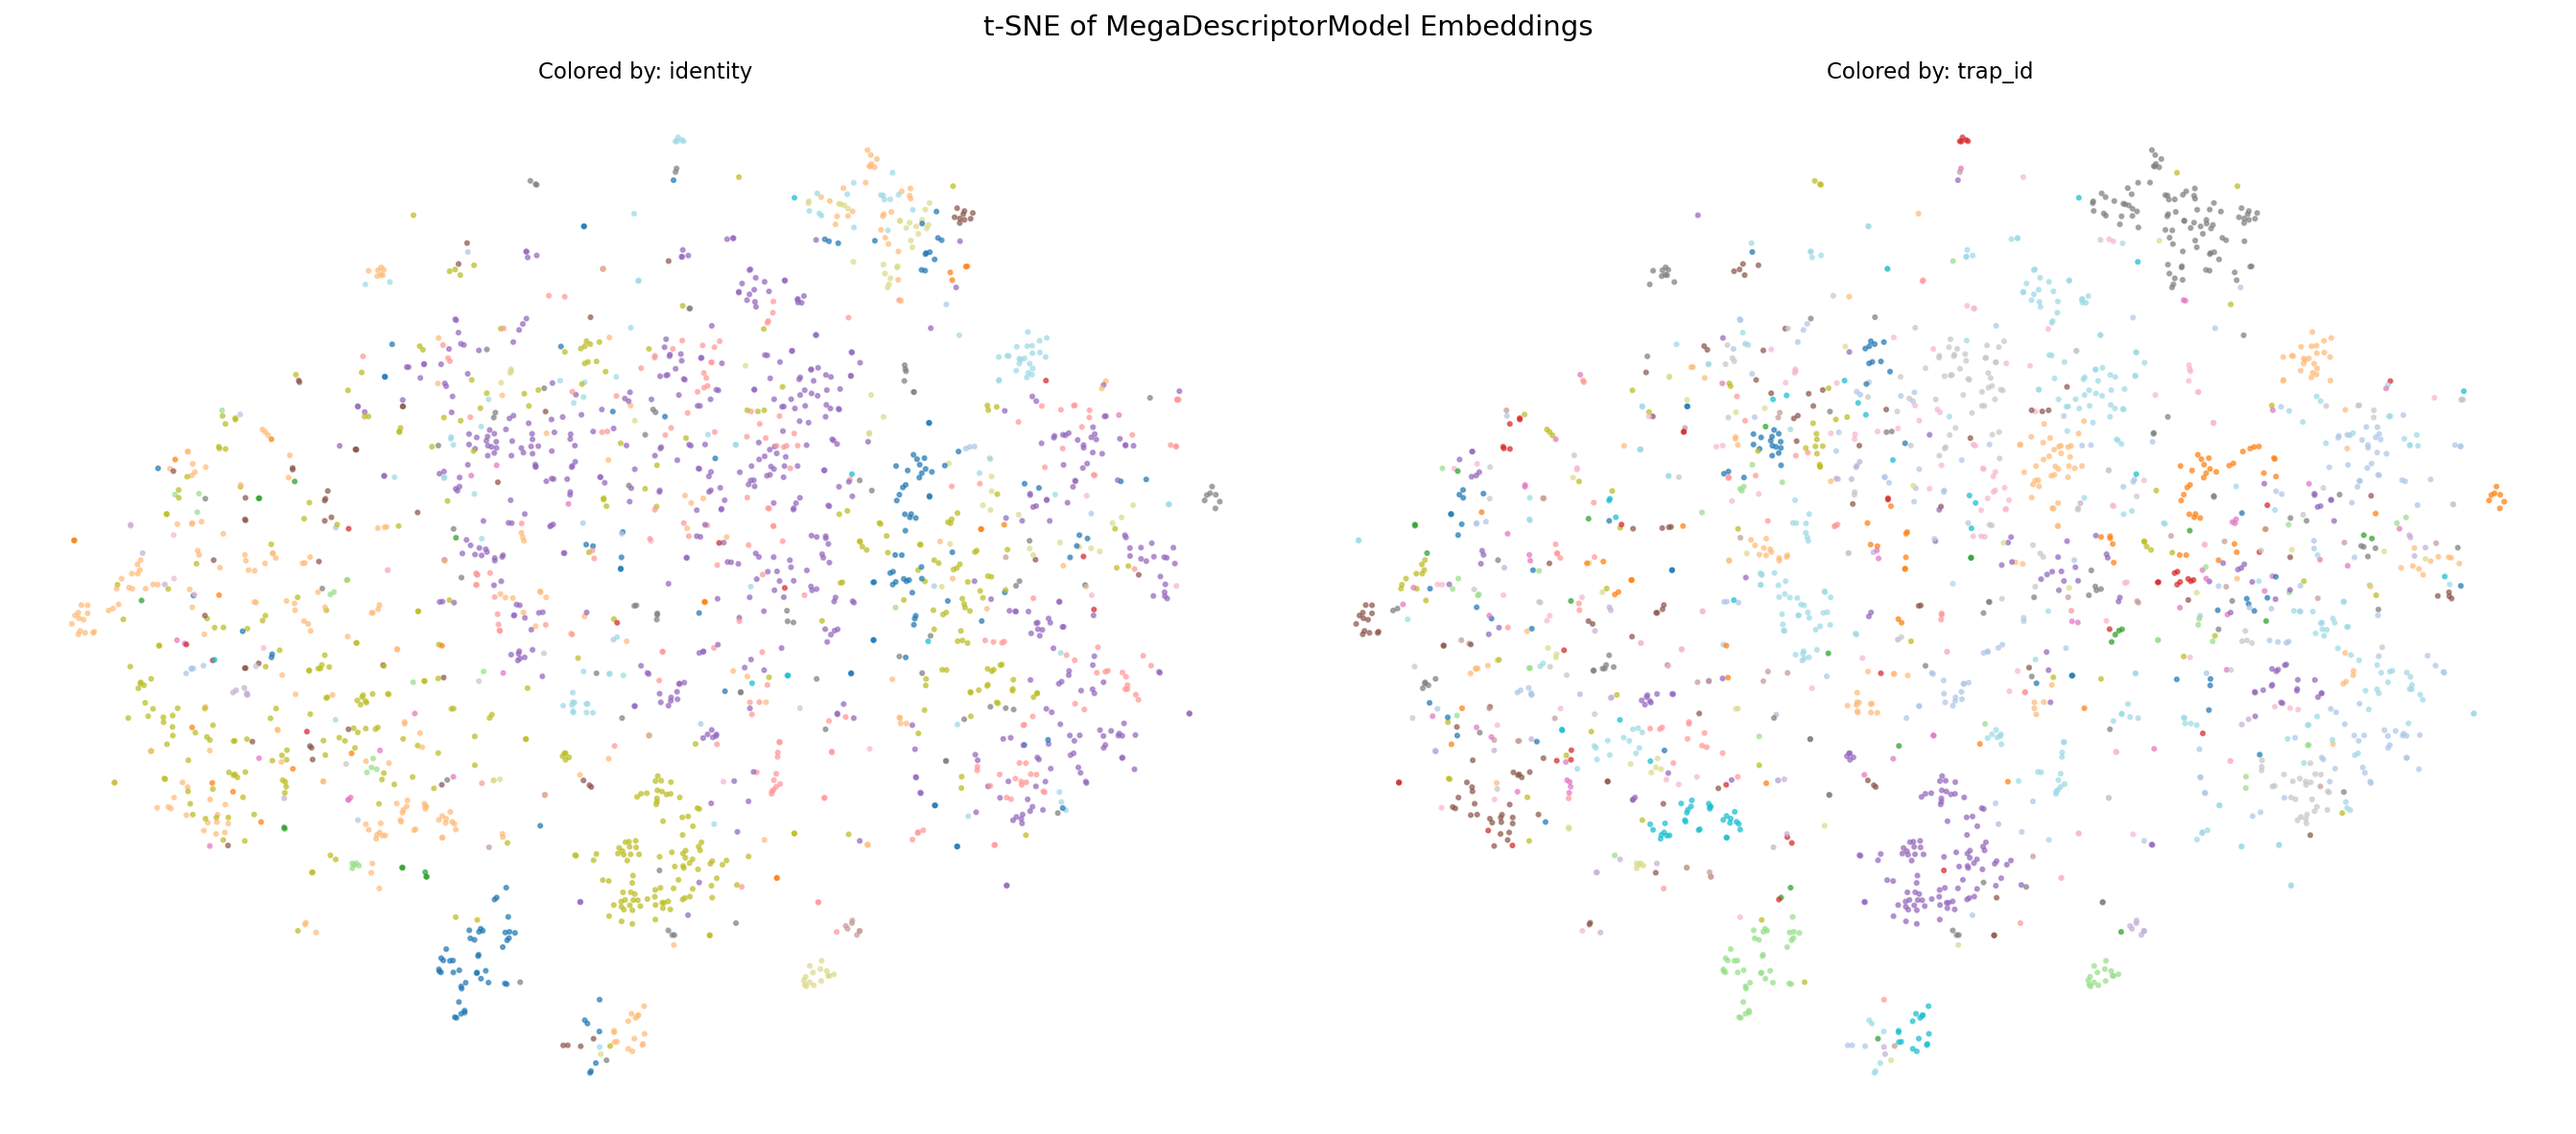
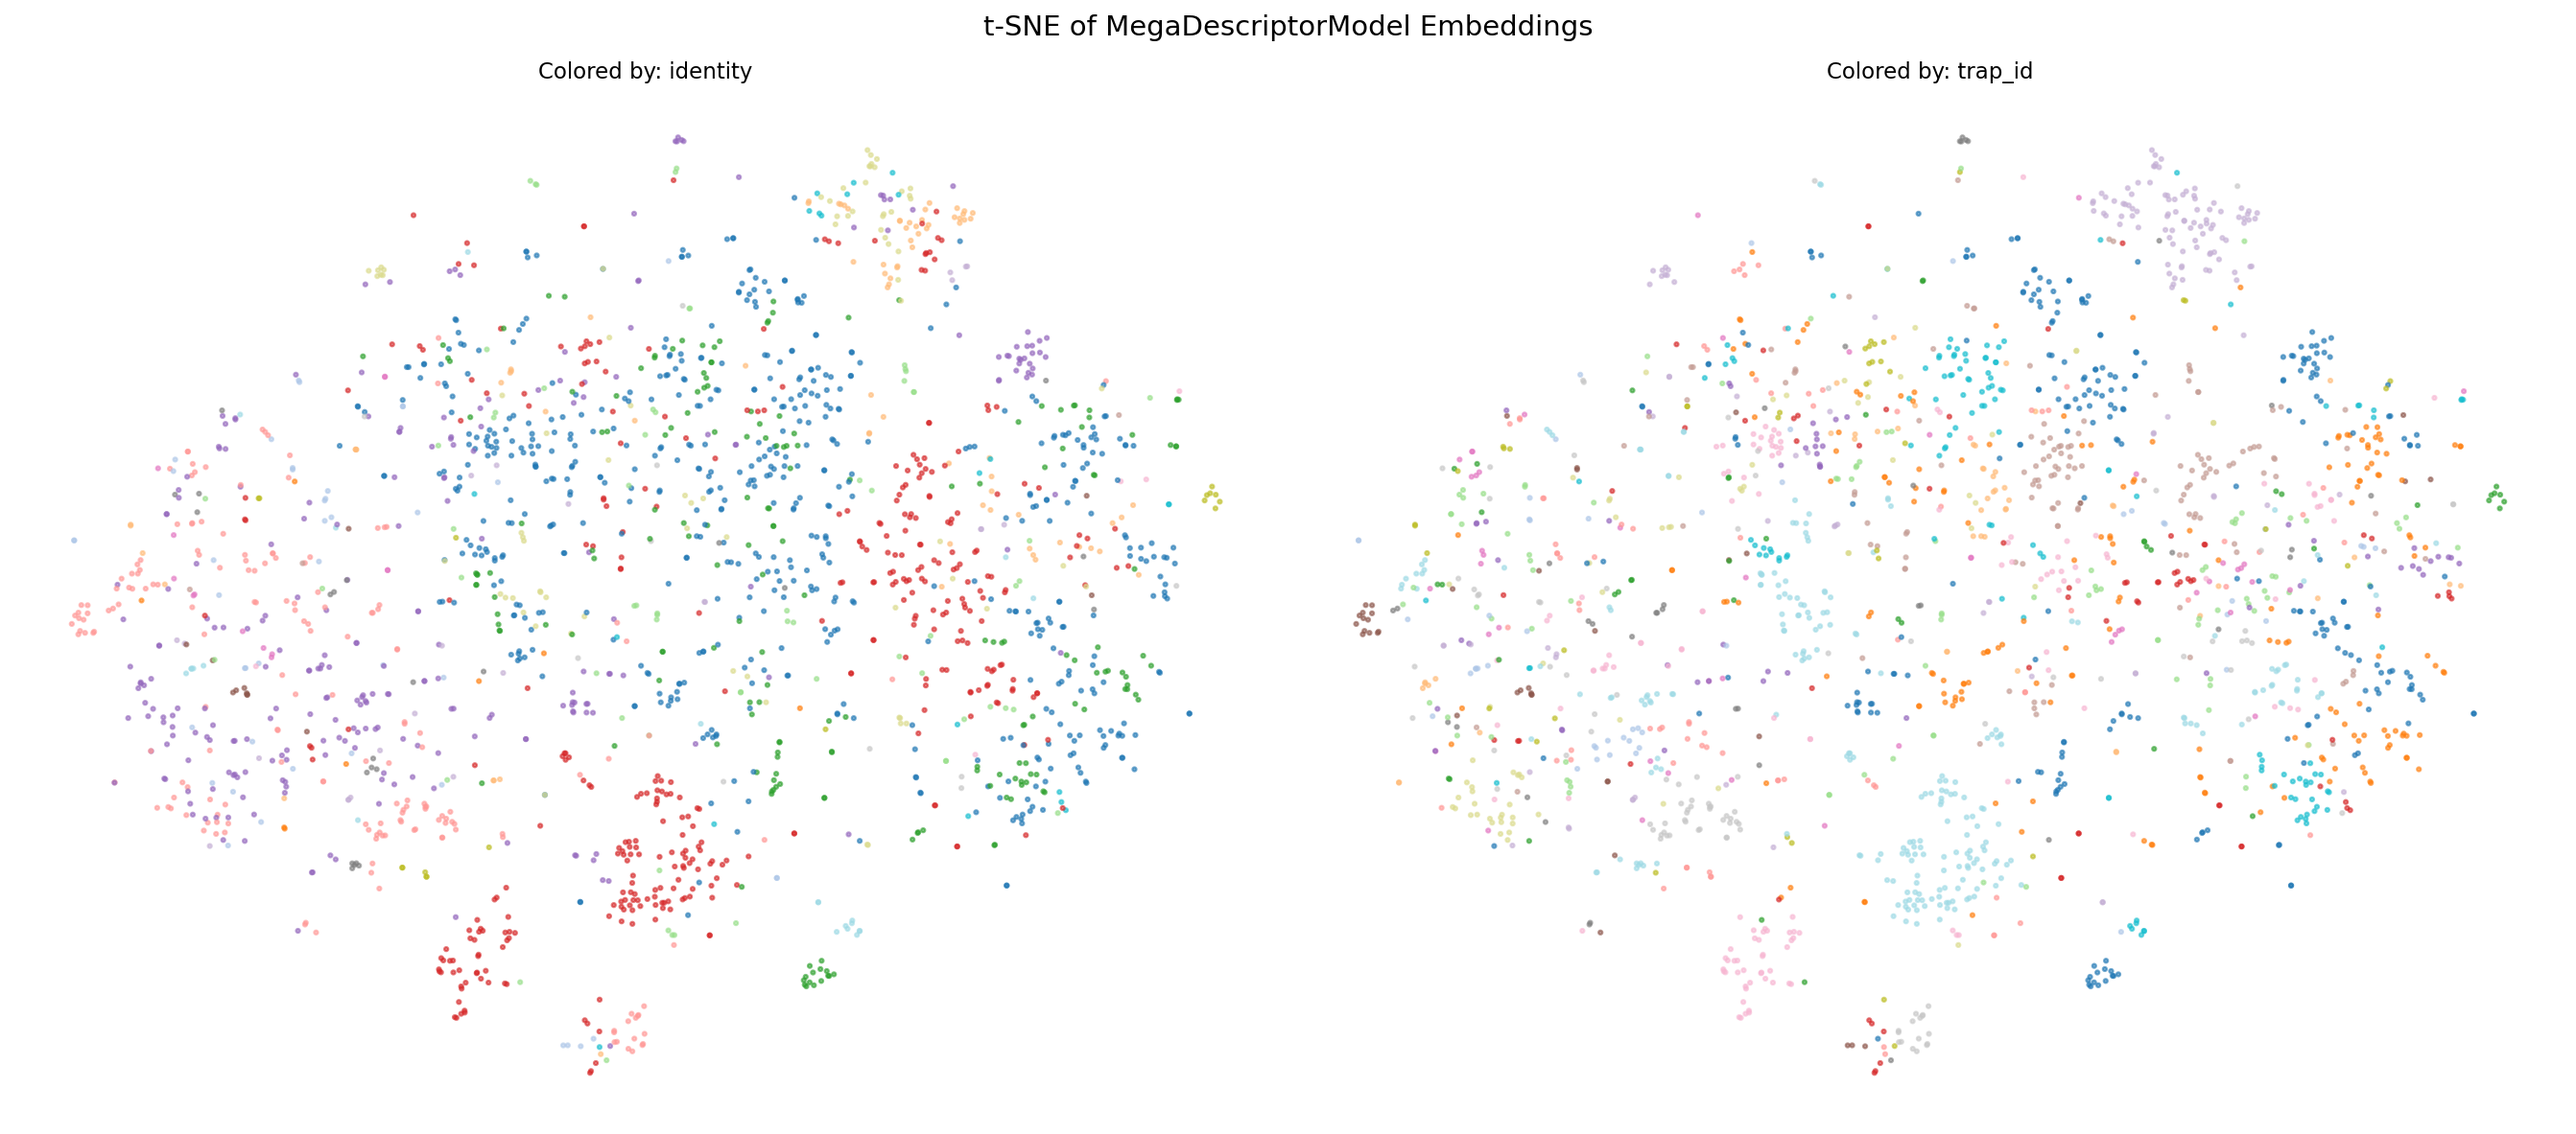
v1

diff --git a/evaluation/visualize_retrieval.py b/evaluation/visualize_retrieval.py
@@ -1,0 +1,213 @@
+import numpy as np
+import matplotlib.pyplot as plt
+import matplotlib.patches as mpatches
+from PIL import Image
+import torch
+from torch.utils.data import DataLoader
+
+from models.base import BaseModel
+
+
+def _load_pil(dataset, idx: int) -> Image.Image:
+    return Image.open(dataset.data_root / dataset.df.iloc[idx]["path"]).convert("RGB")
+
+
+def _extract_all_embeddings(
+    model: BaseModel,
+    dataset,
+    device: torch.device,
+    val_transform,
+    max_samples: int | None = None,
+) -> tuple[np.ndarray, list[str], list[int]]:
+    model.eval()
+    embeddings, identities, indices = [], [], []
+
+    all_idx = list(range(len(dataset)))
+    if max_samples and len(all_idx) > max_samples:
+        import random
+        random.seed(42)
+        all_idx = random.sample(all_idx, max_samples)
+
+    with torch.no_grad():
+        for idx in all_idx:
+            row = dataset.df.iloc[idx]
+            img = val_transform(_load_pil(dataset, idx)).unsqueeze(0).to(device)
+            emb = model.encode(img).cpu().numpy()[0]
+            embeddings.append(emb)
+            identities.append(row["identity"])
+            indices.append(idx)
+
+    return np.array(embeddings), identities, indices
+
+
+def run_retrieval_examples(
+    model: BaseModel,
+    query_dataset,
+    gallery_dataset,
+    device: torch.device,
+    val_transform,
+    n_queries: int = 5,
+    top_k: int = 5,
+    save_path: str = "retrieval_examples.png",
+):
+    """
+    For n_queries query images, show top_k gallery retrievals.
+    Green border = correct identity, red = wrong.
+    Queries are sampled to have diverse identities.
+    """
+    print("Extracting query embeddings...")
+    q_embs, q_ids, q_idxs = _extract_all_embeddings(model, query_dataset, device, val_transform)
+    print("Extracting gallery embeddings...")
+    g_embs, g_ids, g_idxs = _extract_all_embeddings(model, gallery_dataset, device, val_transform)
+
+    q_norm = q_embs / (np.linalg.norm(q_embs, axis=1, keepdims=True) + 1e-8)
+    g_norm = g_embs / (np.linalg.norm(g_embs, axis=1, keepdims=True) + 1e-8)
+    sim = q_norm @ g_norm.T  # [Q, G]
+
+    seen_ids, chosen = set(), []
+    for i, qid in enumerate(q_ids):
+        if qid not in seen_ids:
+            chosen.append(i)
+            seen_ids.add(qid)
+        if len(chosen) >= n_queries:
+            break
+
+    fig, axes = plt.subplots(n_queries, top_k + 1, figsize=((top_k + 1) * 2.5, n_queries * 2.8))
+    fig.suptitle("Retrieval Examples — Query (left) + Top-K Gallery Results", fontsize=13)
+
+    for row, q_i in enumerate(chosen):
+        ax = axes[row, 0]
+        ax.imshow(_load_pil(query_dataset, q_idxs[q_i]).resize((160, 160)))
+        ax.set_title(f"Query\n{q_ids[q_i]}", fontsize=6, color="black")
+        ax.axis("off")
+        for spine in ax.spines.values():
+            spine.set_visible(True)
+            spine.set_linewidth(3)
+            spine.set_edgecolor("blue")
+
+        top_k_idx = np.argsort(sim[q_i])[::-1][:top_k]
+        for col, g_i in enumerate(top_k_idx):
+            ax = axes[row, col + 1]
+            ax.imshow(_load_pil(gallery_dataset, g_idxs[g_i]).resize((160, 160)))
+            correct = (g_ids[g_i] == q_ids[q_i])
+            color = "green" if correct else "red"
+            ax.set_title(f"{'✓' if correct else '✗'} {g_ids[g_i]}\nsim={sim[q_i][g_i]:.2f}",
+                         fontsize=6, color=color)
+            ax.axis("off")
+            for spine in ax.spines.values():
+                spine.set_visible(True)
+                spine.set_linewidth(3)
+                spine.set_edgecolor(color)
+
+    plt.tight_layout()
+    plt.savefig(save_path, dpi=130, bbox_inches="tight")
+    plt.close()
+    print(f"Saved: {save_path}")
+
+
+def run_confusion_analysis(
+    model: BaseModel,
+    query_dataset,
+    gallery_dataset,
+    device: torch.device,
+    val_transform,
+    n_examples: int = 6,
+    save_path: str = "confusion_analysis.png",
+):
+    """
+    Show cases where model is most confidently wrong —
+    high similarity score but wrong identity.
+    These are the hardest confusions, great for presentation.
+    """
+    print("Extracting embeddings for confusion analysis...")
+    q_embs, q_ids, q_idxs = _extract_all_embeddings(model, query_dataset, device, val_transform)
+    g_embs, g_ids, g_idxs = _extract_all_embeddings(model, gallery_dataset, device, val_transform)
+
+    q_norm = q_embs / (np.linalg.norm(q_embs, axis=1, keepdims=True) + 1e-8)
+    g_norm = g_embs / (np.linalg.norm(g_embs, axis=1, keepdims=True) + 1e-8)
+    sim = q_norm @ g_norm.T
+
+    confusions = []
+    for q_i in range(len(q_ids)):
+        top1_g = np.argmax(sim[q_i])
+        if g_ids[top1_g] != q_ids[q_i]:
+            confusions.append((sim[q_i][top1_g], q_i, top1_g))
+
+    confusions.sort(reverse=True)
+    confusions = confusions[:n_examples]
+
+    fig, axes = plt.subplots(n_examples, 2, figsize=(6, n_examples * 3))
+    fig.suptitle("Most Confident Wrong Retrievals", fontsize=13)
+
+    for row, (score, q_i, g_i) in enumerate(confusions):
+        axes[row, 0].imshow(_load_pil(query_dataset, q_idxs[q_i]).resize((200, 200)))
+        axes[row, 0].set_title(f"Query: {q_ids[q_i]}", fontsize=8)
+        axes[row, 0].axis("off")
+
+        axes[row, 1].imshow(_load_pil(gallery_dataset, g_idxs[g_i]).resize((200, 200)))
+        axes[row, 1].set_title(f"Retrieved: {g_ids[g_i]}\nsim={score:.3f}", fontsize=8, color="red")
+        axes[row, 1].axis("off")
+
+    plt.tight_layout()
+    plt.savefig(save_path, dpi=130, bbox_inches="tight")
+    plt.close()
+    print(f"Saved: {save_path}")
+
+
+def run_embedding_distance_distribution(
+    model: BaseModel,
+    query_dataset,
+    gallery_dataset,
+    device: torch.device,
+    val_transform,
+    save_path: str = "distance_distribution.png",
+    max_samples: int = 1000,
+):
+    """
+    Distribution of cosine similarities:
+    - same identity (positive pairs) vs different identity (negative pairs).
+    Good separation = good model.
+    """
+    print("Extracting embeddings for distance distribution...")
+    q_embs, q_ids, _ = _extract_all_embeddings(
+        model, query_dataset, device, val_transform, max_samples=max_samples
+    )
+    g_embs, g_ids, _ = _extract_all_embeddings(
+        model, gallery_dataset, device, val_transform
+    )
+
+    q_norm = q_embs / (np.linalg.norm(q_embs, axis=1, keepdims=True) + 1e-8)
+    g_norm = g_embs / (np.linalg.norm(g_embs, axis=1, keepdims=True) + 1e-8)
+    sim = q_norm @ g_norm.T
+
+    pos_sims, neg_sims = [], []
+    for q_i, qid in enumerate(q_ids):
+        for g_i, gid in enumerate(g_ids):
+            s = sim[q_i, g_i]
+            if qid == gid:
+                pos_sims.append(s)
+            else:
+                neg_sims.append(s)
+
+    import random
+    random.seed(42)
+    if len(neg_sims) > 50000:
+        neg_sims = random.sample(neg_sims, 50000)
+
+    fig, ax = plt.subplots(figsize=(10, 5))
+    ax.hist(neg_sims, bins=80, alpha=0.6, color="red", label="Different identity (negatives)", density=True)
+    ax.hist(pos_sims, bins=80, alpha=0.7, color="green", label="Same identity (positives)", density=True)
+    ax.set_xlabel("Cosine Similarity")
+    ax.set_ylabel("Density")
+    ax.set_title(f"Embedding Distance Distribution — {model.__class__.__name__}")
+    ax.legend(fontsize=10)
+    ax.axvline(x=np.mean(pos_sims), color="darkgreen", linestyle="--",
+               label=f"Mean positive: {np.mean(pos_sims):.3f}")
+    ax.axvline(x=np.mean(neg_sims), color="darkred", linestyle="--",
+               label=f"Mean negative: {np.mean(neg_sims):.3f}")
+    ax.legend(fontsize=9)
+
+    plt.tight_layout()
+    plt.savefig(save_path, dpi=130, bbox_inches="tight")
+    plt.close()
+    print(f"Saved: {save_path}")

diff --git a/run_reid.py b/run_reid.py
@@ -15,6 +15,11 @@ from evaluation.retrieval import RetrievalEvaluator
 from models.reid import MegaDescriptorModel
 from training.trainer import Trainer
 from evaluation.visualize import run_tsne_analysis, run_tsne_camera_vs_identity
+from evaluation.visualize_retrieval import (
+    run_retrieval_examples,
+    run_confusion_analysis, 
+    run_embedding_distance_distribution,
+)
 
 
 def parse_args():
@@ -131,6 +136,14 @@ def main():
         val_transform=val_transform,
         save_path=f"run/{run_id}/tsne_camera_proof.png",
     )
+
+
+    run_retrieval_examples(model, dm.test_query_ds, dm.test_gallery_ds, device, val_transform,
+        save_path=f"run/{run_id}/retrieval_examples.png")
+    run_confusion_analysis(model, dm.test_query_ds, dm.test_gallery_ds, device, val_transform,
+        save_path=f"run/{run_id}/confusion.png")
+    run_embedding_distance_distribution(model, dm.test_query_ds, dm.test_gallery_ds, device, val_transform,
+        save_path=f"run/{run_id}/distance_dist.png")
 
 if __name__ == "__main__":
     main()

diff --git a/run_baseline.py b/run_baseline.py
@@ -15,6 +15,11 @@ from models.baseline import EfficientNetBaseline
 from training.trainer import Trainer
 from evaluation.xai.gradcam import run_gradcam_analysis
 from evaluation.visualize import run_tsne_analysis, run_tsne_camera_vs_identity
+from evaluation.visualize_retrieval import (
+    run_retrieval_examples,
+    run_confusion_analysis, 
+    run_embedding_distance_distribution,
+)
 
 
 def parse_args():
@@ -111,6 +116,13 @@ def main():
         val_transform=val_transform,
         save_path=f"run/{run_id}/tsne_camera_proof.png"
     )
+
+    run_retrieval_examples(model, dm.test_query_ds, dm.test_gallery_ds, device, val_transform,
+        save_path=f"run/{run_id}/retrieval_examples.png")
+    run_confusion_analysis(model, dm.test_query_ds, dm.test_gallery_ds, device, val_transform,
+        save_path=f"run/{run_id}/confusion.png")
+    run_embedding_distance_distribution(model, dm.test_query_ds, dm.test_gallery_ds, device, val_transform,
+        save_path=f"run/{run_id}/distance_dist.png")
 
 
 if __name__ == "__main__":
